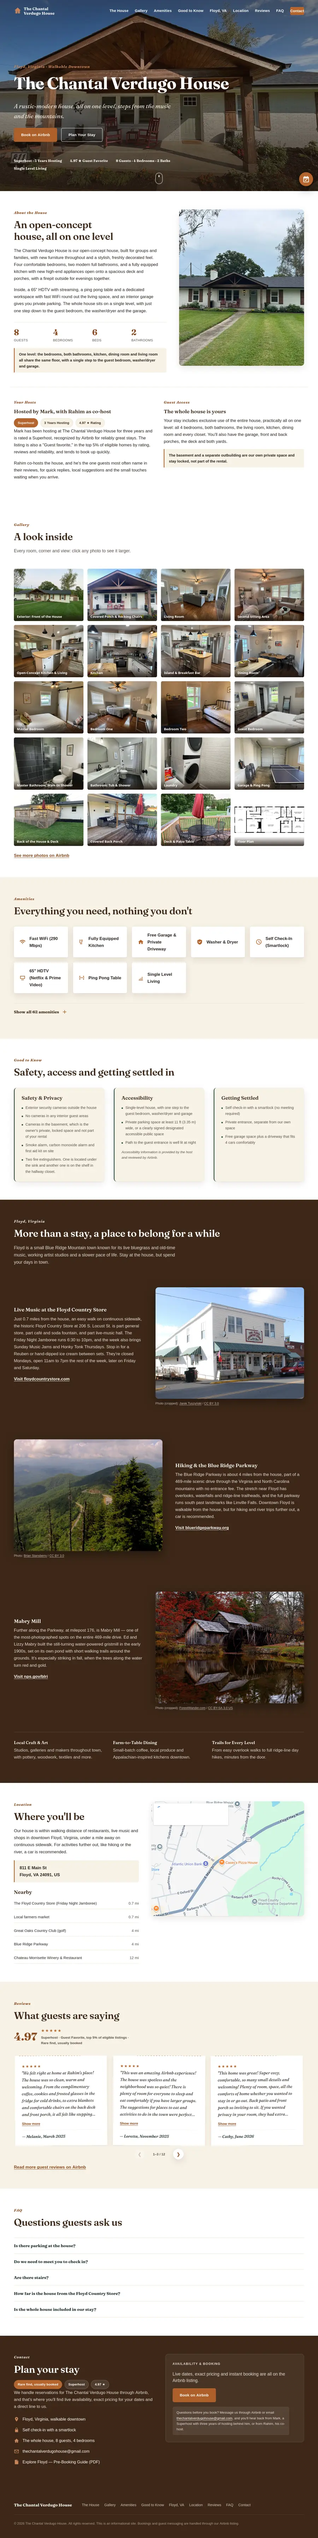
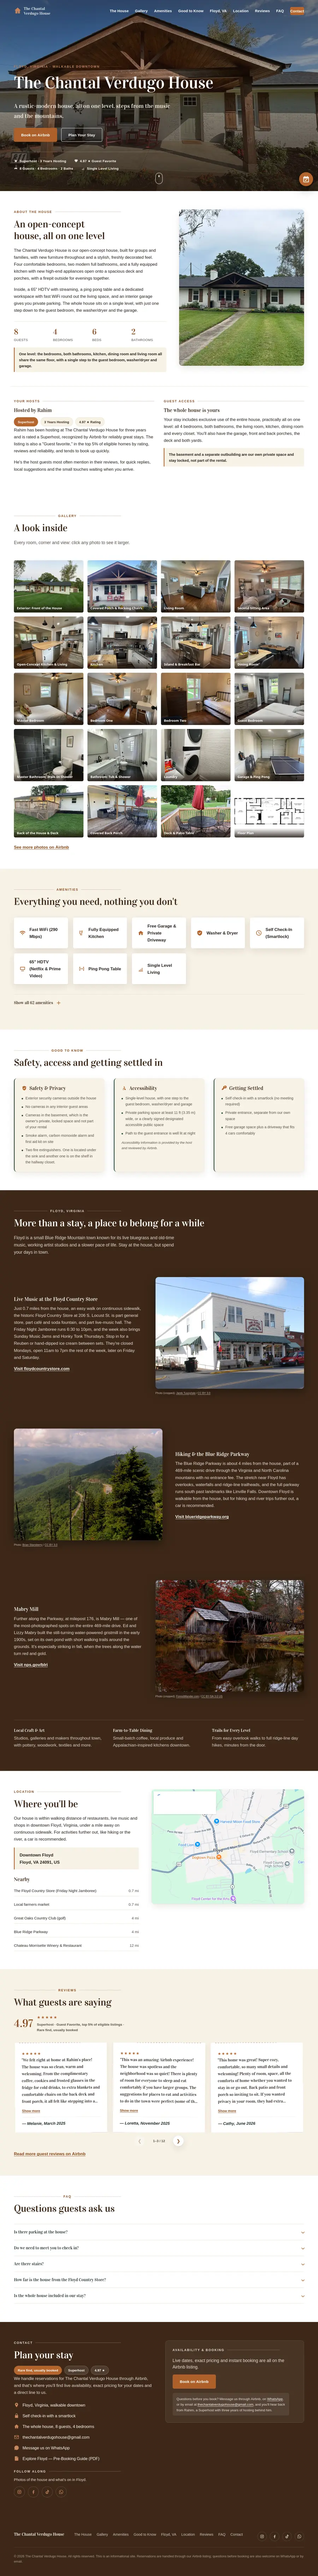
feat(chantal): add WhatsApp, Instagram, Facebook and TikTok links
Contact section gets a "Follow along" social row plus a WhatsApp contact
line, and a matching compact icon group lands in the footer. Updates the
sameAs/contactPoint JSON-LD and the copy that previously implied all
contact ran through Airbnb. Regenerates the gallery preview screenshot.

diff --git a/projects/chantal_verdugo_house/public/index.html b/projects/chantal_verdugo_house/public/index.html
@@ -52,10 +52,11 @@
       imagesizes="100vw" />
 
     <!-- Structured data: lodging business. Bookings run through the Airbnb listing
-         declared in "sameAs"; the email is for questions before booking, so there is no
-         public phone. No streetAddress/geo on purpose — locality/region/postal code are
-         enough for local search, and the owner would rather not publish the exact
-         street number or rooftop coordinates. -->
+         declared in "sameAs", alongside the house's Instagram, Facebook and TikTok
+         profiles. The email and WhatsApp number are for questions before booking, not
+         for reservations themselves. No streetAddress/geo on purpose — locality/region/
+         postal code are enough for local search, and the owner would rather not publish
+         the exact street number or rooftop coordinates. -->
     <script type="application/ld+json">
       {
         "@context": "https://schema.org",
@@ -65,7 +66,19 @@
         "description": "Our four-bedroom house in downtown Floyd, Virginia sleeps 8 on a single level. Walk to the Country Store, and the Blue Ridge Parkway is 4 miles away.",
         "url": "https://www.thechantalverdugohouse.com/",
         "email": "thechantalverdugohouse@gmail.com",
-        "sameAs": ["https://www.airbnb.com/rooms/963874806976281129"],
+        "sameAs": [
+          "https://www.airbnb.com/rooms/963874806976281129",
+          "https://www.instagram.com/the_chantal_verdugo_house/",
+          "https://www.facebook.com/people/The-Chantal-Verdugo-House/61564620514012/",
+          "https://www.tiktok.com/@the.chantal.verdu"
+        ],
+        "contactPoint": {
+          "@type": "ContactPoint",
+          "contactType": "customer service",
+          "telephone": "+34604987855",
+          "contactOption": "WhatsApp",
+          "availableLanguage": ["English", "Spanish"]
+        },
         "image": "https://www.thechantalverdugohouse.com/assets/img/og.jpg",
         "priceRange": "$$",
         "address": {
@@ -1498,6 +1511,16 @@
                 <a href="mailto:thechantalverdugohouse@gmail.com">thechantalverdugohouse@gmail.com</a>
               </li>
               <li>
+                <svg class="icon" viewBox="0 0 24 24" aria-hidden="true" focusable="false"><path fill="currentColor" d="M12.01 2C6.48 2 2 6.48 2 12c0 1.85.5 3.58 1.36 5.07L2 22l5.06-1.33A9.94 9.94 0 0 0 12.01 22C17.53 22 22 17.52 22 12S17.53 2 12.01 2Z" /></svg>
+                <a
+                  href="https://wa.me/34604987855?text=Hi!%20I%20have%20a%20question%20about%20The%20Chantal%20Verdugo%20House"
+                  target="_blank"
+                  rel="noopener">
+                  Message us on WhatsApp
+                  <span class="sr-only">(opens in a new tab)</span>
+                </a>
+              </li>
+              <li>
                 <svg class="icon" viewBox="0 0 24 24" aria-hidden="true" focusable="false"><path fill="currentColor" d="M6 2h9l5 5v13a2 2 0 0 1-2 2H6a2 2 0 0 1-2-2V4a2 2 0 0 1 2-2Zm8 1.5V8h4.5L14 3.5ZM8 13h8v1.5H8V13Zm0 3h8v1.5H8V16.5Z" /></svg>
                 <a href="assets/docs/pre-booking-guide.pdf" target="_blank" rel="noopener">
                   Explore Floyd — Pre-Booking Guide (PDF)
@@ -1505,6 +1528,71 @@
                 </a>
               </li>
             </ul>
+
+            <div class="contact__follow">
+              <p class="contact__follow-title">Follow along</p>
+              <p class="contact__follow-lead">Photos of the house and what's on in Floyd.</p>
+              <ul class="social">
+                <li>
+                  <a
+                    class="social__link"
+                    href="https://www.instagram.com/the_chantal_verdugo_house/"
+                    target="_blank"
+                    rel="noopener"
+                    aria-label="The Chantal Verdugo House on Instagram (opens in a new tab)">
+                    <svg viewBox="0 0 24 24" aria-hidden="true" focusable="false">
+                      <path
+                        fill="currentColor"
+                        fill-rule="evenodd"
+                        clip-rule="evenodd"
+                        d="M8 3h8a5 5 0 0 1 5 5v8a5 5 0 0 1-5 5H8a5 5 0 0 1-5-5V8a5 5 0 0 1 5-5Zm0 2a3 3 0 0 0-3 3v8a3 3 0 0 0 3 3h8a3 3 0 0 0 3-3V8a3 3 0 0 0-3-3H8Zm4 3a4 4 0 1 1 0 8 4 4 0 0 1 0-8Zm0 2a2 2 0 1 0 0 4 2 2 0 0 0 0-4Zm4.6-3.2a1 1 0 1 1 0 2 1 1 0 0 1 0-2Z" />
+                    </svg>
+                  </a>
+                </li>
+                <li>
+                  <a
+                    class="social__link"
+                    href="https://www.facebook.com/people/The-Chantal-Verdugo-House/61564620514012/"
+                    target="_blank"
+                    rel="noopener"
+                    aria-label="The Chantal Verdugo House on Facebook (opens in a new tab)">
+                    <svg viewBox="0 0 24 24" aria-hidden="true" focusable="false">
+                      <path
+                        fill="currentColor"
+                        d="M14 22v-8h2.7l.4-3H14V9c0-.87.24-1.46 1.5-1.46H17V4.14C16.72 4.1 15.77 4 14.66 4 12.34 4 10.76 5.4 10.76 8V11H8v3h2.76v8H14Z" />
+                    </svg>
+                  </a>
+                </li>
+                <li>
+                  <a
+                    class="social__link"
+                    href="https://www.tiktok.com/@the.chantal.verdu"
+                    target="_blank"
+                    rel="noopener"
+                    aria-label="The Chantal Verdugo House on TikTok (opens in a new tab)">
+                    <svg viewBox="0 0 24 24" aria-hidden="true" focusable="false">
+                      <path
+                        fill="currentColor"
+                        d="M16.6 2h-3.2v13.4a2.8 2.8 0 1 1-2-2.68V9.5a6 6 0 1 0 5.2 5.95V8.9a7.7 7.7 0 0 0 4.4 1.38V7.06A4.5 4.5 0 0 1 16.6 2Z" />
+                    </svg>
+                  </a>
+                </li>
+                <li>
+                  <a
+                    class="social__link"
+                    href="https://wa.me/34604987855?text=Hi!%20I%20have%20a%20question%20about%20The%20Chantal%20Verdugo%20House"
+                    target="_blank"
+                    rel="noopener"
+                    aria-label="Message The Chantal Verdugo House on WhatsApp (opens in a new tab)">
+                    <svg viewBox="0 0 24 24" aria-hidden="true" focusable="false">
+                      <path
+                        fill="currentColor"
+                        d="M12.01 2C6.48 2 2 6.48 2 12c0 1.85.5 3.58 1.36 5.07L2 22l5.06-1.33A9.94 9.94 0 0 0 12.01 22C17.53 22 22 17.52 22 12S17.53 2 12.01 2Zm0 18.1c-1.63 0-3.15-.46-4.44-1.26l-.32-.19-3.01.79.8-2.93-.21-.3A8.09 8.09 0 0 1 3.9 12c0-4.48 3.64-8.11 8.11-8.11 4.47 0 8.1 3.63 8.1 8.11 0 4.48-3.63 8.1-8.1 8.1Zm4.44-6.06c-.24-.12-1.44-.71-1.66-.79-.22-.08-.39-.12-.55.12-.16.24-.63.79-.78.95-.14.16-.29.18-.53.06-.24-.12-1.03-.38-1.96-1.22-.72-.65-1.21-1.44-1.35-1.68-.14-.24-.02-.37.11-.49.11-.11.24-.29.36-.43.12-.14.16-.24.24-.4.08-.16.04-.3-.02-.42-.06-.12-.55-1.34-.76-1.83-.2-.48-.4-.42-.55-.42-.14-.01-.3-.01-.46-.01-.16 0-.42.06-.64.3-.22.24-.84.82-.84 2s.86 2.32.98 2.48c.12.16 1.7 2.6 4.12 3.64.58.25 1.03.4 1.38.51.58.18 1.11.16 1.53.1.47-.07 1.44-.59 1.64-1.16.2-.57.2-1.05.14-1.16-.06-.11-.22-.17-.46-.29Z" />
+                    </svg>
+                  </a>
+                </li>
+              </ul>
+            </div>
           </div>
 
           <div class="contact__booking reveal">
@@ -1521,7 +1609,13 @@
                 Book on Airbnb <span class="sr-only">(opens in a new tab)</span>
               </a>
               <p class="booking-card__note">
-                Questions before you book? Message us through Airbnb or email
+                Questions before you book? Message us through Airbnb, on
+                <a
+                  href="https://wa.me/34604987855?text=Hi!%20I%20have%20a%20question%20about%20The%20Chantal%20Verdugo%20House"
+                  target="_blank"
+                  rel="noopener">
+                  WhatsApp<span class="sr-only"> (opens in a new tab)</span></a
+                >, or by email at
                 <a href="mailto:thechantalverdugohouse@gmail.com">thechantalverdugohouse@gmail.com</a>,
                 and you'll hear back from Rahim, a Superhost with three years of hosting
                 behind him.
@@ -1550,10 +1644,72 @@
           <a href="#contact">Contact</a>
         </nav>
 
+        <ul class="social social--sm" aria-label="Social media">
+          <li>
+            <a
+              class="social__link"
+              href="https://www.instagram.com/the_chantal_verdugo_house/"
+              target="_blank"
+              rel="noopener"
+              aria-label="The Chantal Verdugo House on Instagram (opens in a new tab)">
+              <svg viewBox="0 0 24 24" aria-hidden="true" focusable="false">
+                <path
+                  fill="currentColor"
+                  fill-rule="evenodd"
+                  clip-rule="evenodd"
+                  d="M8 3h8a5 5 0 0 1 5 5v8a5 5 0 0 1-5 5H8a5 5 0 0 1-5-5V8a5 5 0 0 1 5-5Zm0 2a3 3 0 0 0-3 3v8a3 3 0 0 0 3 3h8a3 3 0 0 0 3-3V8a3 3 0 0 0-3-3H8Zm4 3a4 4 0 1 1 0 8 4 4 0 0 1 0-8Zm0 2a2 2 0 1 0 0 4 2 2 0 0 0 0-4Zm4.6-3.2a1 1 0 1 1 0 2 1 1 0 0 1 0-2Z" />
+              </svg>
+            </a>
+          </li>
+          <li>
+            <a
+              class="social__link"
+              href="https://www.facebook.com/people/The-Chantal-Verdugo-House/61564620514012/"
+              target="_blank"
+              rel="noopener"
+              aria-label="The Chantal Verdugo House on Facebook (opens in a new tab)">
+              <svg viewBox="0 0 24 24" aria-hidden="true" focusable="false">
+                <path
+                  fill="currentColor"
+                  d="M14 22v-8h2.7l.4-3H14V9c0-.87.24-1.46 1.5-1.46H17V4.14C16.72 4.1 15.77 4 14.66 4 12.34 4 10.76 5.4 10.76 8V11H8v3h2.76v8H14Z" />
+              </svg>
+            </a>
+          </li>
+          <li>
+            <a
+              class="social__link"
+              href="https://www.tiktok.com/@the.chantal.verdu"
+              target="_blank"
+              rel="noopener"
+              aria-label="The Chantal Verdugo House on TikTok (opens in a new tab)">
+              <svg viewBox="0 0 24 24" aria-hidden="true" focusable="false">
+                <path
+                  fill="currentColor"
+                  d="M16.6 2h-3.2v13.4a2.8 2.8 0 1 1-2-2.68V9.5a6 6 0 1 0 5.2 5.95V8.9a7.7 7.7 0 0 0 4.4 1.38V7.06A4.5 4.5 0 0 1 16.6 2Z" />
+              </svg>
+            </a>
+          </li>
+          <li>
+            <a
+              class="social__link"
+              href="https://wa.me/34604987855?text=Hi!%20I%20have%20a%20question%20about%20The%20Chantal%20Verdugo%20House"
+              target="_blank"
+              rel="noopener"
+              aria-label="Message The Chantal Verdugo House on WhatsApp (opens in a new tab)">
+              <svg viewBox="0 0 24 24" aria-hidden="true" focusable="false">
+                <path
+                  fill="currentColor"
+                  d="M12.01 2C6.48 2 2 6.48 2 12c0 1.85.5 3.58 1.36 5.07L2 22l5.06-1.33A9.94 9.94 0 0 0 12.01 22C17.53 22 22 17.52 22 12S17.53 2 12.01 2Zm0 18.1c-1.63 0-3.15-.46-4.44-1.26l-.32-.19-3.01.79.8-2.93-.21-.3A8.09 8.09 0 0 1 3.9 12c0-4.48 3.64-8.11 8.11-8.11 4.47 0 8.1 3.63 8.1 8.11 0 4.48-3.63 8.1-8.1 8.1Zm4.44-6.06c-.24-.12-1.44-.71-1.66-.79-.22-.08-.39-.12-.55.12-.16.24-.63.79-.78.95-.14.16-.29.18-.53.06-.24-.12-1.03-.38-1.96-1.22-.72-.65-1.21-1.44-1.35-1.68-.14-.24-.02-.37.11-.49.11-.11.24-.29.36-.43.12-.14.16-.24.24-.4.08-.16.04-.3-.02-.42-.06-.12-.55-1.34-.76-1.83-.2-.48-.4-.42-.55-.42-.14-.01-.3-.01-.46-.01-.16 0-.42.06-.64.3-.22.24-.84.82-.84 2s.86 2.32.98 2.48c.12.16 1.7 2.6 4.12 3.64.58.25 1.03.4 1.38.51.58.18 1.11.16 1.53.1.47-.07 1.44-.59 1.64-1.16.2-.57.2-1.05.14-1.16-.06-.11-.22-.17-.46-.29Z" />
+              </svg>
+            </a>
+          </li>
+        </ul>
+
         <p class="site-footer__copy">
           &copy; <span data-year>2026</span> The Chantal Verdugo House. All rights
-          reserved. This is an informational site. Bookings and guest messaging are
-          handled through our Airbnb listing.
+          reserved. This is an informational site. Reservations are handled through our
+          Airbnb listing; questions before booking are also welcome on WhatsApp or by
+          email.
         </p>
       </div>
     </footer>

diff --git a/projects/chantal_verdugo_house/public/css/styles.css b/projects/chantal_verdugo_house/public/css/styles.css
@@ -1681,6 +1681,76 @@ html.js .reviews-carousel__nav {
   color: var(--copper-light);
 }
 
+.contact__follow {
+  margin-top: 1.75rem;
+}
+
+/* Same label + rule device as .booking-card__eyebrow below, duplicated rather than
+   shared: that one is scoped to its own card, this one sits directly in the section. */
+.contact__follow-title {
+  display: flex;
+  align-items: center;
+  gap: 0.85em;
+  margin: 0;
+  font-size: 0.78rem;
+  font-weight: 700;
+  letter-spacing: 0.18em;
+  text-transform: uppercase;
+  color: var(--copper-light);
+}
+
+.contact__follow-title::after {
+  content: "";
+  flex: 1 1 auto;
+  height: 1px;
+  background: currentColor;
+  opacity: 0.35;
+}
+
+.contact__follow-lead {
+  margin: 0.6rem 0 0;
+  font-size: 0.95rem;
+  color: rgba(255, 255, 255, 0.75);
+}
+
+.social {
+  list-style: none;
+  padding: 0;
+  margin: 1rem 0 0;
+  display: flex;
+  flex-wrap: wrap;
+  gap: 0.75rem;
+}
+
+.social__link {
+  display: flex;
+  align-items: center;
+  justify-content: center;
+  width: 44px;
+  height: 44px;
+  border: 1px solid rgba(255, 255, 255, 0.22);
+  border-radius: 50%;
+  color: var(--copper-light);
+  transition:
+    background-color 0.2s var(--ease),
+    color 0.2s var(--ease),
+    border-color 0.2s var(--ease),
+    transform 0.2s var(--ease);
+}
+
+.social__link svg {
+  width: 20px;
+  height: 20px;
+}
+
+.social__link:hover,
+.social__link:focus-visible {
+  background: var(--copper);
+  border-color: var(--copper);
+  color: var(--white);
+  transform: translateY(-2px);
+}
+
 .booking-card {
   background: rgba(255, 255, 255, 0.06);
   border: 1px solid rgba(255, 255, 255, 0.14);
@@ -1854,6 +1924,20 @@ html.js .reviews-carousel__nav {
   font-size: 0.82rem;
   color: rgba(255, 255, 255, 0.55);
   max-width: none;
+}
+
+/* Smaller, quieter variant of .social for the footer, so it doesn't compete with the
+   contact section's own "Follow along" group. */
+.social--sm .social__link {
+  width: 38px;
+  height: 38px;
+  color: rgba(255, 255, 255, 0.75);
+  border-color: rgba(255, 255, 255, 0.18);
+}
+
+.social--sm .social__link svg {
+  width: 18px;
+  height: 18px;
 }
 
 /* ============ FLOATING BOOKING BUTTON ============ */
